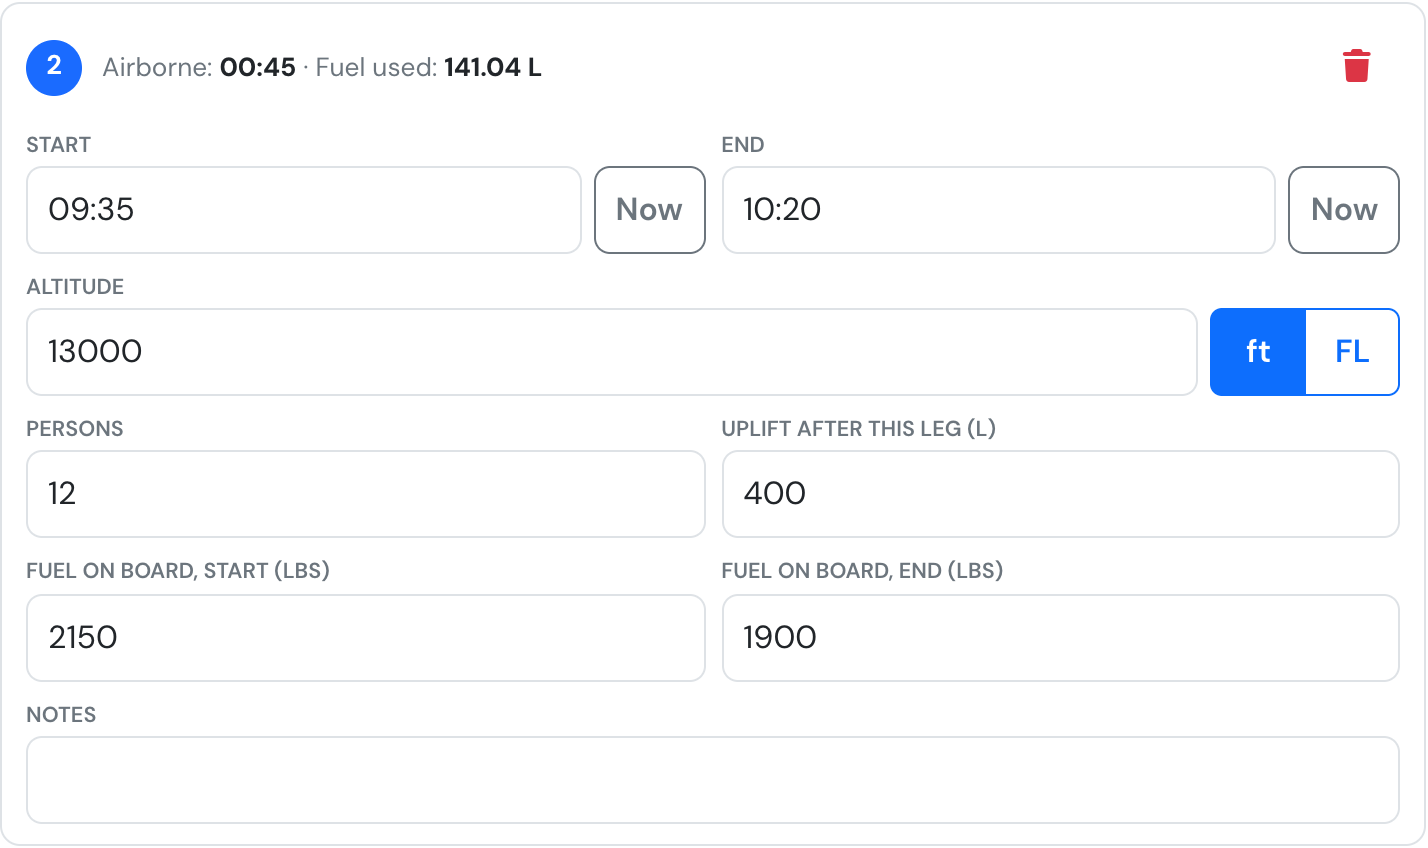
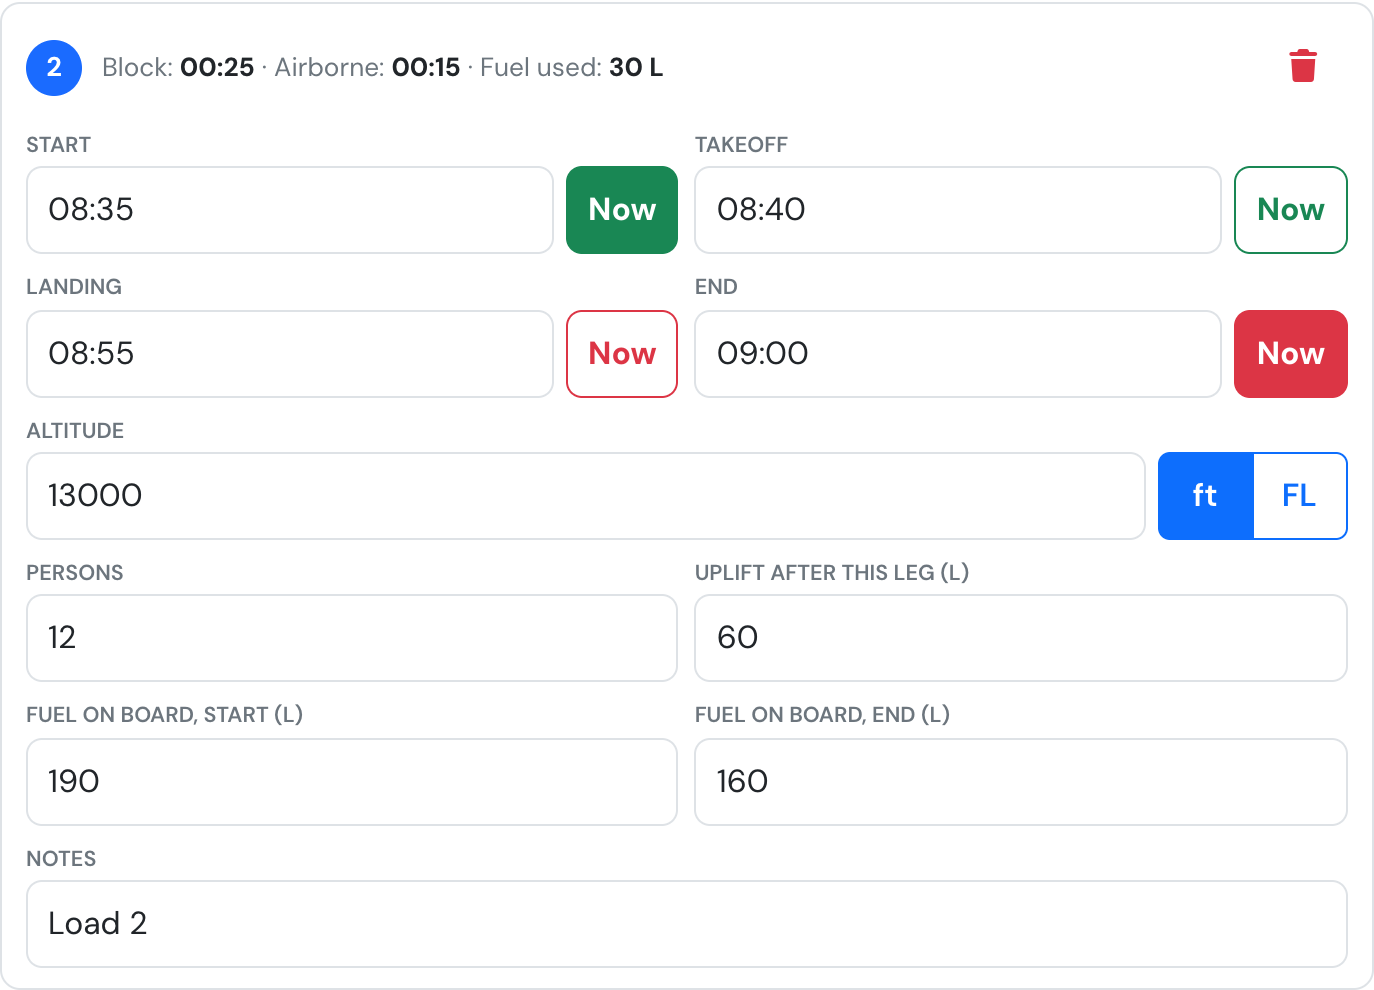
docs(flight-legs): takeoff and landing per leg, shorter fuel labels

Changed region(s): [[0.0, 0.0307, 1.0, 1.0], [0.3974, 0.1226, 0.6114, 0.3986], [0.0, 0.0307, 0.4891, 0.3679]]

diff --git a/flights/flight-legs.md b/flights/flight-legs.md
@@ -9,8 +9,9 @@ Each leg has the same, fixed columns, whatever the operation:
 | Column | What goes in it |
 |---|---|
 | **#** | The leg number, 1, 2, 3… in the order you recorded them. |
-| **Start / End** | When the sortie started and ended. Tap the green **Now** to stamp the start, the red **Now** to stamp the end. |
-| **Airborne** | Worked out for you from Start and End. |
+| **Start / End** | Off-blocks and on-blocks of the sortie. Tap the green **Now** to stamp the start, the red **Now** to stamp the end. |
+| **Takeoff / Landing** | When the aircraft left the ground and touched down. Filled in for you: takeoff 5 minutes after the start, landing 5 minutes before the end. Each has its own **Now** button to stamp the real time. |
+| **Block / Airborne** | Worked out for you: block time from Start to End, airborne time from Takeoff to Landing. |
 | **Altitude** | In feet (**ft**) or as a flight level (**FL**), for example the exit altitude of a lift. |
 | **Persons** | The people for this leg, for example jumpers dropped. |
 | **Uplift after this leg** | Fuel added after this leg, in your company's uplift unit (for example litres). Shown when the aircraft tracks fuel. |
@@ -39,6 +40,7 @@ Legs have their own **Legs** card in the flight form, right above the flight tim
 1. Open the flight (or start a new one) and tap **+ Add leg**.
    * If the flight hasn't been saved yet, Flylogs saves it first. If something required is missing, the form shows what to complete and the leg is not added until the flight can be saved.
 2. Tap the green **Now** next to **Start** when the sortie begins, and the red **Now** next to **End** when it's over. You can also type the times.
+   * **Takeoff** fills in 5 minutes after the start, and **Landing** 5 minutes before the end when it is empty. Tap their own **Now** buttons (or type a time) to record the real takeoff and landing. Once you set one yourself, changing the start or end no longer moves it.
 3. Fill in altitude (pick **ft** or **FL**), persons, fuel and notes as needed.
 
 There is no Save button for legs: **every change is saved as you make it**, and a small message confirms it ("Leg 3 saved").
@@ -47,15 +49,15 @@ There is no Save button for legs: **every change is saved as you make it**, and 
 
 The form is built for phones and tablets in the cockpit: large buttons and number keypads, so a leg takes a few seconds at each ground stop.
 
-<figure><img src="../.gitbook/assets/flight-legs-editor-phone.png" alt="Two legs on a phone, each with a green Now button for the start and a red Now button for the end" width="390"><figcaption><p>Two legs on a phone.</p></figcaption></figure>
+<figure><img src="../.gitbook/assets/flight-legs-editor-phone.png" alt="Two legs on a phone, each with Start, Takeoff, Landing and End times and a Now button for each; the header shows block and airborne time" width="390"><figcaption><p>Two legs on a phone.</p></figcaption></figure>
 
 ### Overlapping legs
 
-A leg can't start before the leg above it has ended. If you enter a start time that does, the leg shows a warning, for example "Starts at 08:35, before leg 2 ends (08:40)", with a button to fix it: **End leg 2 at 08:35** sets the end of the leg above to this leg's start. You can also correct either time yourself; the warning goes away once the times no longer overlap.
+A leg can't start before the leg above it has ended. If you enter a start time that does, the leg shows a warning, for example "Starts at 08:55, before leg 2 ends (09:00)", with a button to fix it: **End leg 2 at 08:55** sets the end of the leg above to this leg's start. You can also correct either time yourself; the warning goes away once the times no longer overlap.
 
 If a leg starts even before the leg above it started, the legs are out of order: the warning asks you to check the times, with no automatic fix.
 
-<figure><img src="../.gitbook/assets/flight-legs-overlap.png" alt="Leg 3 starts at 08:35 while leg 2 ends at 08:40; a warning offers End leg 2 at 08:35" width="390"><figcaption><p>Leg 3 starts before leg 2 ends. One tap ends leg 2 at 08:35.</p></figcaption></figure>
+<figure><img src="../.gitbook/assets/flight-legs-overlap.png" alt="Leg 3 starts at 08:55 while leg 2 ends at 09:00; a warning offers End leg 2 at 08:55" width="390"><figcaption><p>Leg 3 starts before leg 2 ends. One tap ends leg 2 at 08:55.</p></figcaption></figure>
 
 ### Deleting a leg
 
@@ -67,14 +69,14 @@ Tap the bin icon on the leg. It disappears straight away and a message offers **
 
 While you edit the flight, the legs fill in its times and landings. Remember to **Save** the flight to keep these changes (legs themselves save on their own).
 
-* **Off-blocks and takeoff**, when empty, take the first leg's start. **Landing and on-blocks**, when empty, take the last leg's end. They keep following the legs until you type a time of your own.
-* **Block time** becomes the total airborne time of the legs every time that total changes. The off-blocks and on-blocks times are not changed. A notice under the times tells you each time it happens.
+* **Off-blocks**, when empty, takes the first leg's start, and **takeoff** the first leg's takeoff. **Landing**, when empty, takes the last leg's landing, and **on-blocks** the last leg's end. They keep following the legs until you type a time of your own; times already entered are never changed.
+* **Block time** becomes the sum of the legs' block times (start to end), and **flight time** the sum of their airborne times (takeoff to landing), every time those totals change. A notice under the times tells you each time it happens.
 * **Flight time** is never longer than the block time: if it is, it is set equal to the block time, and the notice says so.
 * **Landings:** each leg added with **+ Add leg** counts one landing. The first leg is the flight's own landing, so a flight with 3 legs has 3 landings. Deleting a leg does not change the landings.
 
 You can still change the block time, flight time and landings by hand at any time.
 
-<figure><img src="../.gitbook/assets/flight-legs-times-from-legs.png" alt="Flight times filled from the legs: off-blocks and takeoff 08:00, landing and on-blocks 08:52, block and flight time 00:47, with a notice that block time was set from the legs"><figcaption><p>Times filled in from the legs, and the notice after block time was set to the legs' total.</p></figcaption></figure>
+<figure><img src="../.gitbook/assets/flight-legs-times-from-legs.png" alt="Flight times filled from the legs: off-blocks 08:00, takeoff 08:05, landing 09:32, on-blocks 09:37, block time 01:17 and flight time 00:47, with a notice that both were set from the legs"><figcaption><p>Times filled in from the legs, and the notice after block and flight time were set to the legs' totals.</p></figcaption></figure>
 
 Legs added through the API do not change the flight on their own; the times are filled in the next time someone edits the flight in Flylogs.
 
@@ -88,7 +90,7 @@ Pilots never type fuel used. They record what they read on the gauge and what th
 
 > **Fuel used = fuel on board at start + fuel uplifted between legs − fuel on board at end**
 
-* **Fuel on board at start / at end** are on the flight form, next to the fuel uplift. Read the gauge at engine start and at shutdown. They are in the aircraft's **gauge unit**.
+* **Fuel start / Fuel end** (fuel on board) are on the flight form, next to the fuel uplift. Read the gauge at engine start and at shutdown. They are in the aircraft's **gauge unit**.
 * **Uplift after this leg** is on each leg, in your company's **uplift unit**. Record every top-up between lifts on the leg it came after: "after leg 3, 400 litres".
 * Fuel added **before the first leg** is part of the start fuel: read the gauge after refuelling. Fuel added after the last leg is outside the flight; it is still billed (see below) but not counted as used on this flight.
 * If you leave the flight's start or end fuel empty, the first leg's start and the last leg's end are used instead.
@@ -96,9 +98,9 @@ Pilots never type fuel used. They record what they read on the gauge and what th
 
 Fuel used is shown in the uplift unit, on the form while you type, on the flight page, in the PDF and in the logbook export.
 
-<figure><img src="../.gitbook/assets/flight-fuel-card.png" alt="Flight form fuel card: fuel on board at start 2400 lbs and at end 2110 lbs, fuel used 563.61 L with 400 L uplifted between legs" width="420"><figcaption><p>The fuel card on the flight form: gauge readings in pounds, fuel used worked out in litres.</p></figcaption></figure>
+<figure><img src="../.gitbook/assets/flight-fuel-card.png" alt="Flight form fuel card: Fuel start 220 L, Fuel end 185 L, fuel used 95 L with 60 L uplifted between legs" width="420"><figcaption><p>The fuel card on the flight form: Fuel start and Fuel end read off the gauge, fuel used worked out.</p></figcaption></figure>
 
-<figure><img src="../.gitbook/assets/flight-legs-fuel-leg.png" alt="A leg with fuel on board 2150 to 1900 lbs and 400 L uplifted after it; fuel used 141.04 L in the header"><figcaption><p>Leg 2: fuel on board at its start and end, and the 400 L uplifted after it. Its own fuel used is in the header.</p></figcaption></figure>
+<figure><img src="../.gitbook/assets/flight-legs-fuel-leg.png" alt="Leg 2 with fuel on board 190 to 160 L and 60 L uplifted after it; block, airborne time and fuel used 30 L in the header"><figcaption><p>Leg 2: fuel on board at its start and end, and the 400 L uplifted after it. Its own fuel used is in the header.</p></figcaption></figure>
 
 ### Gauge in pounds, refuelled in litres
 
@@ -128,11 +130,11 @@ Legs work without a connection. The message then says "Leg 3 saved offline", and
 
 ## On the flight page
 
-The flight page shows a **Legs** table with every leg and the totals: number of legs, total airborne time, persons, fuel used and fuel uplifted. Under each leg's fuel used are its gauge readings (start → end) and the uplift after it. The flight's details show fuel on board at start and end, the uplifts and the flight's fuel used.
+The flight page shows a **Legs** table with every leg and the totals: number of legs, total block and airborne time, persons, fuel used and fuel uplifted. Under each leg's start and end are its takeoff and landing times and its airborne time. Under each leg's fuel used are its gauge readings (start → end) and the uplift after it. The flight's details show fuel on board at start and end, the uplifts and the flight's fuel used.
 
 <figure><img src="../.gitbook/assets/flight-legs-view-table.png" alt=""><figcaption><p>The Legs table on the flight page, with totals.</p></figcaption></figure>
 
-<figure><img src="../.gitbook/assets/flight-legs-view-fuel.png" alt="Legs table with a Fuel used column: each leg shows litres used, its gauge readings in lbs and, on leg 2, +400 L uplift" width="420"><figcaption><p>On an aircraft that tracks fuel, the Fuel used column carries each leg's gauge readings and the uplift after it.</p></figcaption></figure>
+<figure><img src="../.gitbook/assets/flight-legs-view-fuel.png" alt="Legs table: each leg shows start to end with takeoff to landing and airborne time under it, and a Fuel used column with its gauge readings and, on leg 2, +60 L uplift; totals block 01:17 and airborne 00:47" width="420"><figcaption><p>On an aircraft that tracks fuel, the Fuel used column carries each leg's gauge readings and the uplift after it.</p></figcaption></figure>
 
 <figure><img src="../.gitbook/assets/flight-view-fuel-details.png" alt="Flight details: fuel on board at start 2400 LBS, at end 2110 LBS, uplifts after legs 400 L, fuel used 563.61 L"><figcaption><p>The flight's fuel in its details.</p></figcaption></figure>
 
@@ -144,9 +146,9 @@ When a flight has legs, the confirmation window is wider and lists every leg nex
 
 ## In the PDF and the logbook export
 
-* **Flight PDF** (Print on the flight page): legs are a **Legs** section with the same columns and totals (fuel start, fuel end, fuel used and uplift after each leg), before the remarks. The flight's fuel on board, uplifts and fuel used are in the aircraft and operations section.
+* **Flight PDF** (Print on the flight page): legs are a **Legs** section with the same columns and totals (start, takeoff, landing, end, airborne, fuel start, fuel end, fuel used and uplift after each leg), before the remarks. The flight's fuel on board, uplifts and fuel used are in the aircraft and operations section.
 * **Logbook export (XLS)** from the Flights list or Flights audit: when any exported flight has legs, the workbook gets two more sheets:
-  * **Legs**: one row per leg with the flight's date, aircraft and PIC, its fuel on board at start and end, fuel used and uplift after it, and the fuel units.
+  * **Legs**: one row per leg with the flight's date, aircraft and PIC, its start, takeoff, landing and end times, airborne time, fuel on board at start and end, fuel used and uplift after it, and the fuel units.
   * **Legs by day**: for each date and aircraft, the number of flights and legs, total airborne time, persons, fuel uplifted after legs and the flights' fuel used. For a skydiving operation that is lifts, jumpers and fuel per day.
 
 ## Change history

diff --git a/API/flight-legs.md b/API/flight-legs.md
@@ -4,9 +4,9 @@
 
 A **leg** is one sortie inside a flight record: a skydiving lift, a banner or glider tow, a survey run. A flight can hold up to **99** legs, in the order they were recorded. Legs are detail under the flight: they never change the flight's own block times, landings, fuel fields or remarks, and the [Create or Update Flight](flights.md#create-or-update-flight) endpoint never reads or writes them. The fuel **uplifted** after a leg (`fuel`) is added to the flight's refuelling (see [Fuel](#fuel)).
 
-The API never derives flight fields from legs. The NEO flight form does, when someone edits the flight there: an empty off-blocks / takeoff time takes the first leg's start, an empty landing / on-blocks time the last leg's end, a change in the legs' total airborne time becomes the block time (off/on blocks unchanged, flight time capped at block time), and each leg added with **+ Add leg** counts one landing. If your integration adds legs, send the flight's own times, block time and landings with [Create or Update Flight](flights.md#create-or-update-flight) as well.
+The API never derives flight fields from legs. The NEO flight form does, when someone edits the flight there: an empty off-blocks time takes the first leg's `start_time`, an empty takeoff time the first leg's `takeoff_time`, an empty landing time the last leg's `landing_time` and an empty on-blocks time the last leg's `end_time` (takeoff / landing fall back to start / end on legs without them); a change in the legs' totals sets the flight's block time (sum of `end_time − start_time`) and flight time (sum of `landing_time − takeoff_time`, capped at block time), leaving the four times unchanged; and each leg added with **+ Add leg** counts one landing. If your integration adds legs, send the flight's own times, block time and landings with [Create or Update Flight](flights.md#create-or-update-flight) as well.
 
-Legs are listed as `FlightLeg` (ordered by `sequence`) in the flight's view payload (see [View Flight](flights.md#view-flight)) and in every row of the flight lists `GET /flights/index/…json` and `GET /manager/flights/audit.json`. In the lists each leg carries only `id, flight_id, sequence, start_time, end_time, altitude, altitude_unit, persons, fuel, fuel_start, fuel_end, notes`, and `Aircraft` carries `fuel_tracking` and `fuel_type` for the fuel arithmetic; the uplift unit is the company's `CompanySetting.fuel_uplift_unit`.
+Legs are listed as `FlightLeg` (ordered by `sequence`) in the flight's view payload (see [View Flight](flights.md#view-flight)) and in every row of the flight lists `GET /flights/index/…json` and `GET /manager/flights/audit.json`. In the lists each leg carries only `id, flight_id, sequence, start_time, takeoff_time, landing_time, end_time, altitude, altitude_unit, persons, fuel, fuel_start, fuel_end, notes`, and `Aircraft` carries `fuel_tracking` and `fuel_type` for the fuel arithmetic; the uplift unit is the company's `CompanySetting.fuel_uplift_unit`.
 
 ## Access
 
@@ -42,8 +42,10 @@ Branch on `code`, never on `message`.
 | id | string | **Client-generated UUID** (v4). The same `id` updates the same leg, so a retried request never creates a duplicate. |
 | flight_id | string | The flight the leg belongs to. |
 | sequence | number | Recorded order, assigned by the server (next number on create). **Read-only.** |
-| start_time | number \| null | Unix seconds. |
-| end_time | number \| null | Unix seconds. Airborne time is `end_time − start_time`; it is not stored. |
+| start_time | number \| null | Off-blocks, unix seconds. |
+| takeoff_time | number \| null | Takeoff, unix seconds. Added November 2026. |
+| landing_time | number \| null | Landing, unix seconds. Added November 2026. |
+| end_time | number \| null | On-blocks, unix seconds. Block time is `end_time − start_time` and airborne (flight) time `landing_time − takeoff_time`; neither is stored. On a leg with no `takeoff_time` and no `landing_time` (recorded before they existed), airborne time is `end_time − start_time`. |
 | altitude | number \| null | Feet, or the flight level number when `altitude_unit` is `FL` (`120` = FL120). 0–99999. |
 | altitude_unit | string | `FT` or `FL`. Anything else is stored as `FT`. FL is kept as FL, never converted to feet. |
 | persons | number \| null | People for this leg (e.g. jumpers dropped). 0–9999. |
@@ -63,7 +65,7 @@ Fuel used is **not a field**: it is worked out from the fields above, see [Fuel]
 
 <mark style="color:green;">`POST`</mark> `/flight_legs/save.json`
 
-Creates the leg, or updates it when a leg with this `id` already exists on the same flight. Sends the **whole leg** each time: a field left out is stored as empty — except `fuel_start` and `fuel_end`, which keep their stored value when left out (clients built before they existed do not send them).
+Creates the leg, or updates it when a leg with this `id` already exists on the same flight. Sends the **whole leg** each time: a field left out is stored as empty — except `takeoff_time`, `landing_time`, `fuel_start` and `fuel_end`, which keep their stored value when left out (clients built before they existed do not send them).
 
 #### Request Body
 
@@ -71,8 +73,10 @@ Creates the leg, or updates it when a leg with this `id` already exists on the s
 |---|---|---|
 | data[FlightLeg][id] | string | UUID (required) |
 | data[FlightLeg][flight_id] | string | Flight id (required) |
-| data[FlightLeg][start_time] | number | Unix seconds |
-| data[FlightLeg][end_time] | number | Unix seconds |
+| data[FlightLeg][start_time] | number | Off-blocks, unix seconds |
+| data[FlightLeg][takeoff_time] | number | Takeoff, unix seconds. Left out = unchanged |
+| data[FlightLeg][landing_time] | number | Landing, unix seconds. Left out = unchanged |
+| data[FlightLeg][end_time] | number | On-blocks, unix seconds |
 | data[FlightLeg][altitude] | number | |
 | data[FlightLeg][altitude_unit] | string | `FT` or `FL` |
 | data[FlightLeg][persons] | number | |
@@ -92,6 +96,8 @@ Creates the leg, or updates it when a leg with this `id` already exists on the s
     "flight_id": "84f4d019-ed4b-498f-b109-f29969bbb6d6",
     "sequence": "3",
     "start_time": "1793099700",
+    "takeoff_time": "1793100000",
+    "landing_time": "1793100960",
     "end_time": "1793101260",
     "altitude": "120",
     "altitude_unit": "FL",

diff --git a/whats-new/fuel-used-from-the-gauge.md b/whats-new/fuel-used-from-the-gauge.md
@@ -10,7 +10,7 @@ Pilots read the fuel gauge and know what went into the tank. Fuel used is arithm
 
 ### On every flight
 
-Aircraft that track fuel get two new fields on the flight form: **Fuel on board at start** and **Fuel on board at end**, read at engine start and shutdown. Fuel used appears under them as you type, and on the flight page, the flight PDF and the logbook export.
+Aircraft that track fuel get two new fields on the flight form: **Fuel start** and **Fuel end**, the fuel on board read at engine start and shutdown. Fuel used appears under them as you type, and on the flight page, the flight PDF and the logbook export.
 
 ### Uplifts between legs
 
@@ -18,9 +18,9 @@ For flights with [legs](../flights/flight-legs.md) — skydiving lifts, tows, su
 
 Every uplift after a leg is added to the flight's refuelling on **Billing → Fuel & Excise**, so nothing is typed twice.
 
-<figure><img src="../.gitbook/assets/flight-fuel-card.png" alt="Flight form fuel card: fuel on board at start 2400 lbs and at end 2110 lbs, fuel used 563.61 L with 400 L uplifted between legs" width="420"><figcaption><p>The fuel card on the flight form: gauge readings in pounds, fuel used worked out in litres.</p></figcaption></figure>
+<figure><img src="../.gitbook/assets/flight-fuel-card.png" alt="Flight form fuel card: Fuel start 220 L, Fuel end 185 L, fuel used 95 L with 60 L uplifted between legs" width="420"><figcaption><p>The fuel card on the flight form: Fuel start and Fuel end read off the gauge, fuel used worked out.</p></figcaption></figure>
 
-<figure><img src="../.gitbook/assets/flight-legs-view-fuel.png" alt="Legs table with a Fuel used column: each leg shows litres used, its gauge readings in lbs and, on leg 2, +400 L uplift" width="420"><figcaption><p>On an aircraft that tracks fuel, the Fuel used column carries each leg's gauge readings and the uplift after it.</p></figcaption></figure>
+<figure><img src="../.gitbook/assets/flight-legs-view-fuel.png" alt="Legs table: each leg shows start to end with takeoff to landing and airborne time under it, and a Fuel used column with its gauge readings and, on leg 2, +60 L uplift; totals block 01:17 and airborne 00:47" width="420"><figcaption><p>On an aircraft that tracks fuel, the Fuel used column carries each leg's gauge readings and the uplift after it.</p></figcaption></figure>
 
 ### Better statistics
 
